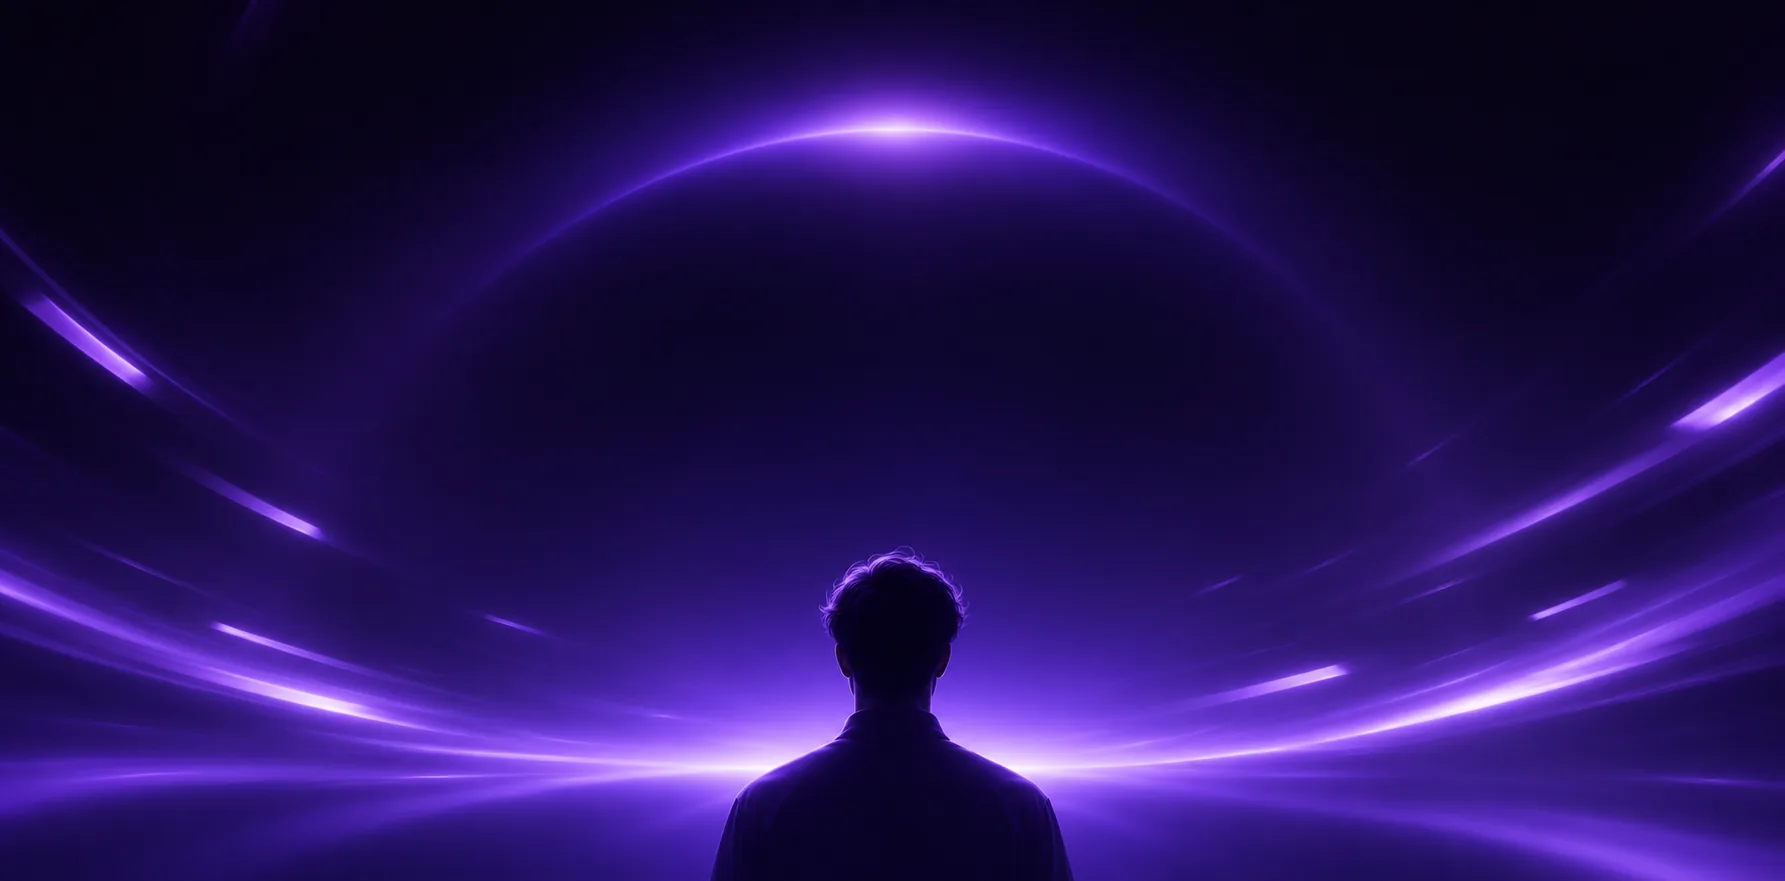
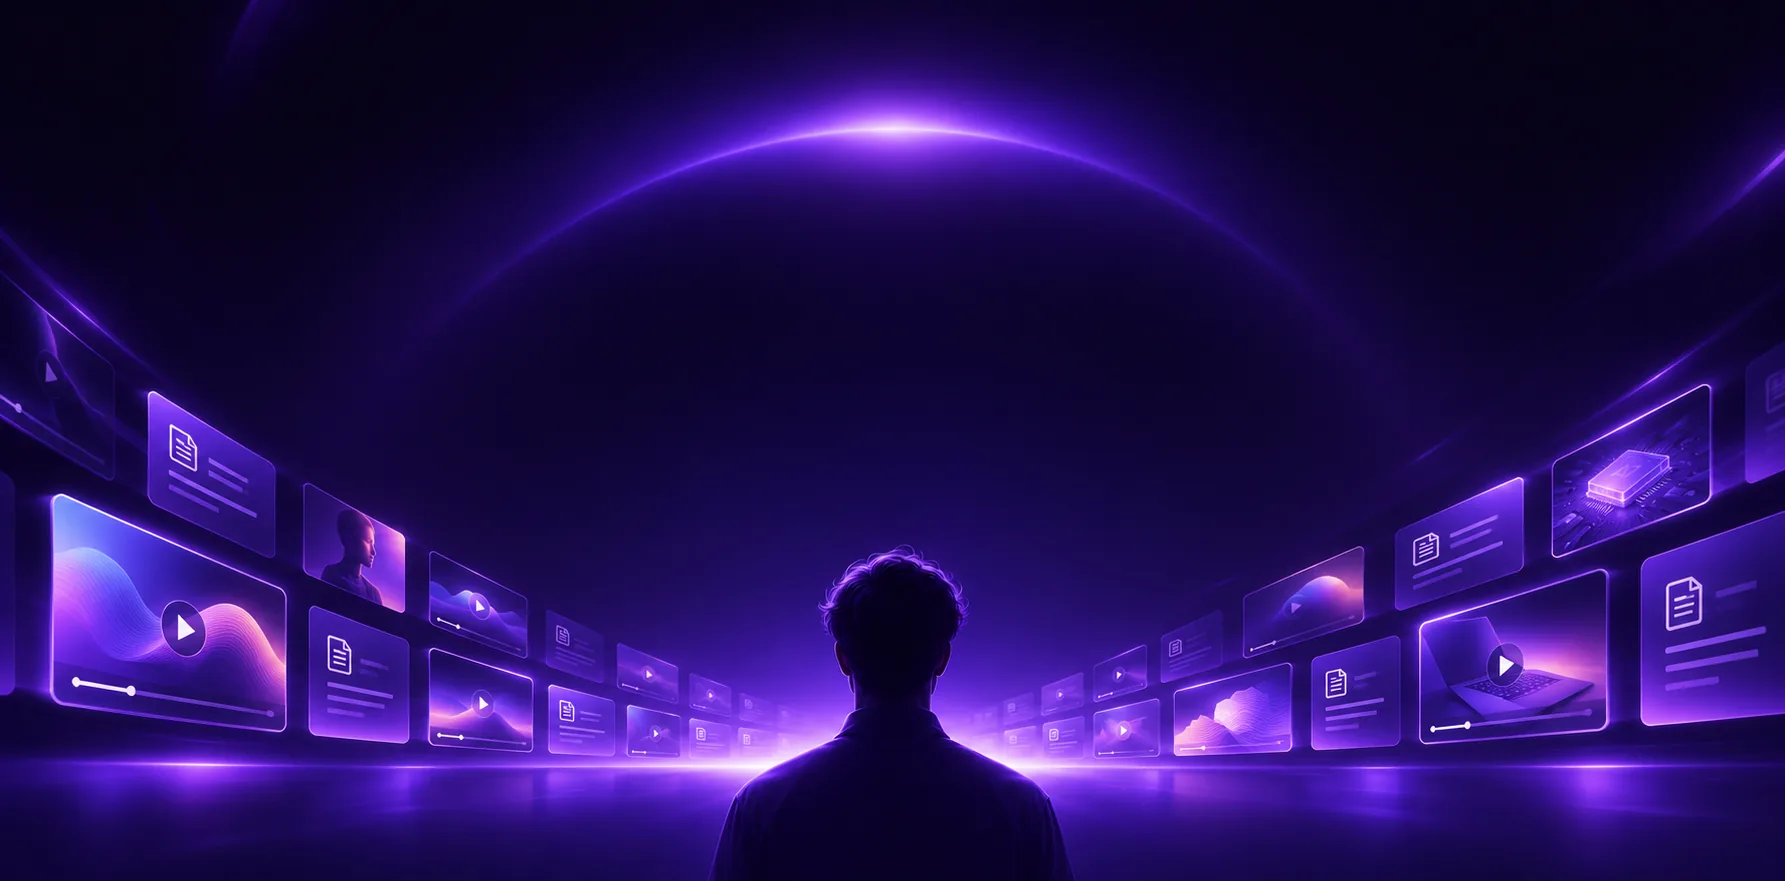
Hero: new background image, keep 'Semuanya ada di satu tempat' on one line
Claude-Session: https://claude.ai/code/session_015ez9Tos3nKVWbBGBx7gJRk

diff --git a/index.html b/index.html
@@ -1267,6 +1267,8 @@ header,header.sc,body.has-side header.sc{--hp:clamp(18px,4vw,48px);width:100%!im
 .home .ask{background:rgba(14,12,42,.34)!important;border-color:rgba(200,196,255,.14)!important}
 
 .hrot{align-items:start;transition:height .35s cubic-bezier(.2,.8,.2,1)}
+
+.home .sub .nw{display:block;white-space:nowrap;font-size:min(1em,calc((100vw - 60px)/19.9))}
 </style>
 </head>
 <body>
@@ -1435,7 +1437,7 @@ return `<section class="hsec fres"><div class="fhd"><h2 class="fth">Featured Res
 function home(){view.innerHTML=`<section class="home"><div class="hbg" aria-hidden="true"><canvas id="hpt"></canvas></div>
 <div class="eyebrow">AI Creator Labs · Learning Portal</div>
 <h1 aria-label="Portal Lengkap Belajar AI"><span class="ht" aria-hidden="true">Portal Lengkap <em>Belajar</em></span><span class="hrot" id="hrot" aria-hidden="true">${ROT.map((c,i)=>`<b${i?"":' class="on"'}>${ci(c)}<span class="w">${esc(c)}</span></b>`).join("")}</span></h1>
-<p class="sub">Temukan skill siap pakai, tonton video, atau baca artikel soal AI. Semuanya ada di satu tempat, 100% gratis.</p>
+<p class="sub">Temukan skill siap pakai, tonton video, atau baca artikel soal AI. <span class="nw">Semuanya ada di satu tempat, 100% gratis.</span></p>
 <div class="chips">${CHIPS.map((c,i)=>`<button class="chip" data-chip="${i}">${esc(c[0])}</button>`).join("")}</div>
 <form class="ask" id="ask"><input id="q" type="text" placeholder="Mau belajar apa hari ini?" aria-label="Cari materi belajar" autocomplete="off"><button type="submit" aria-label="Cari">Cari</button></form>
 </section>
